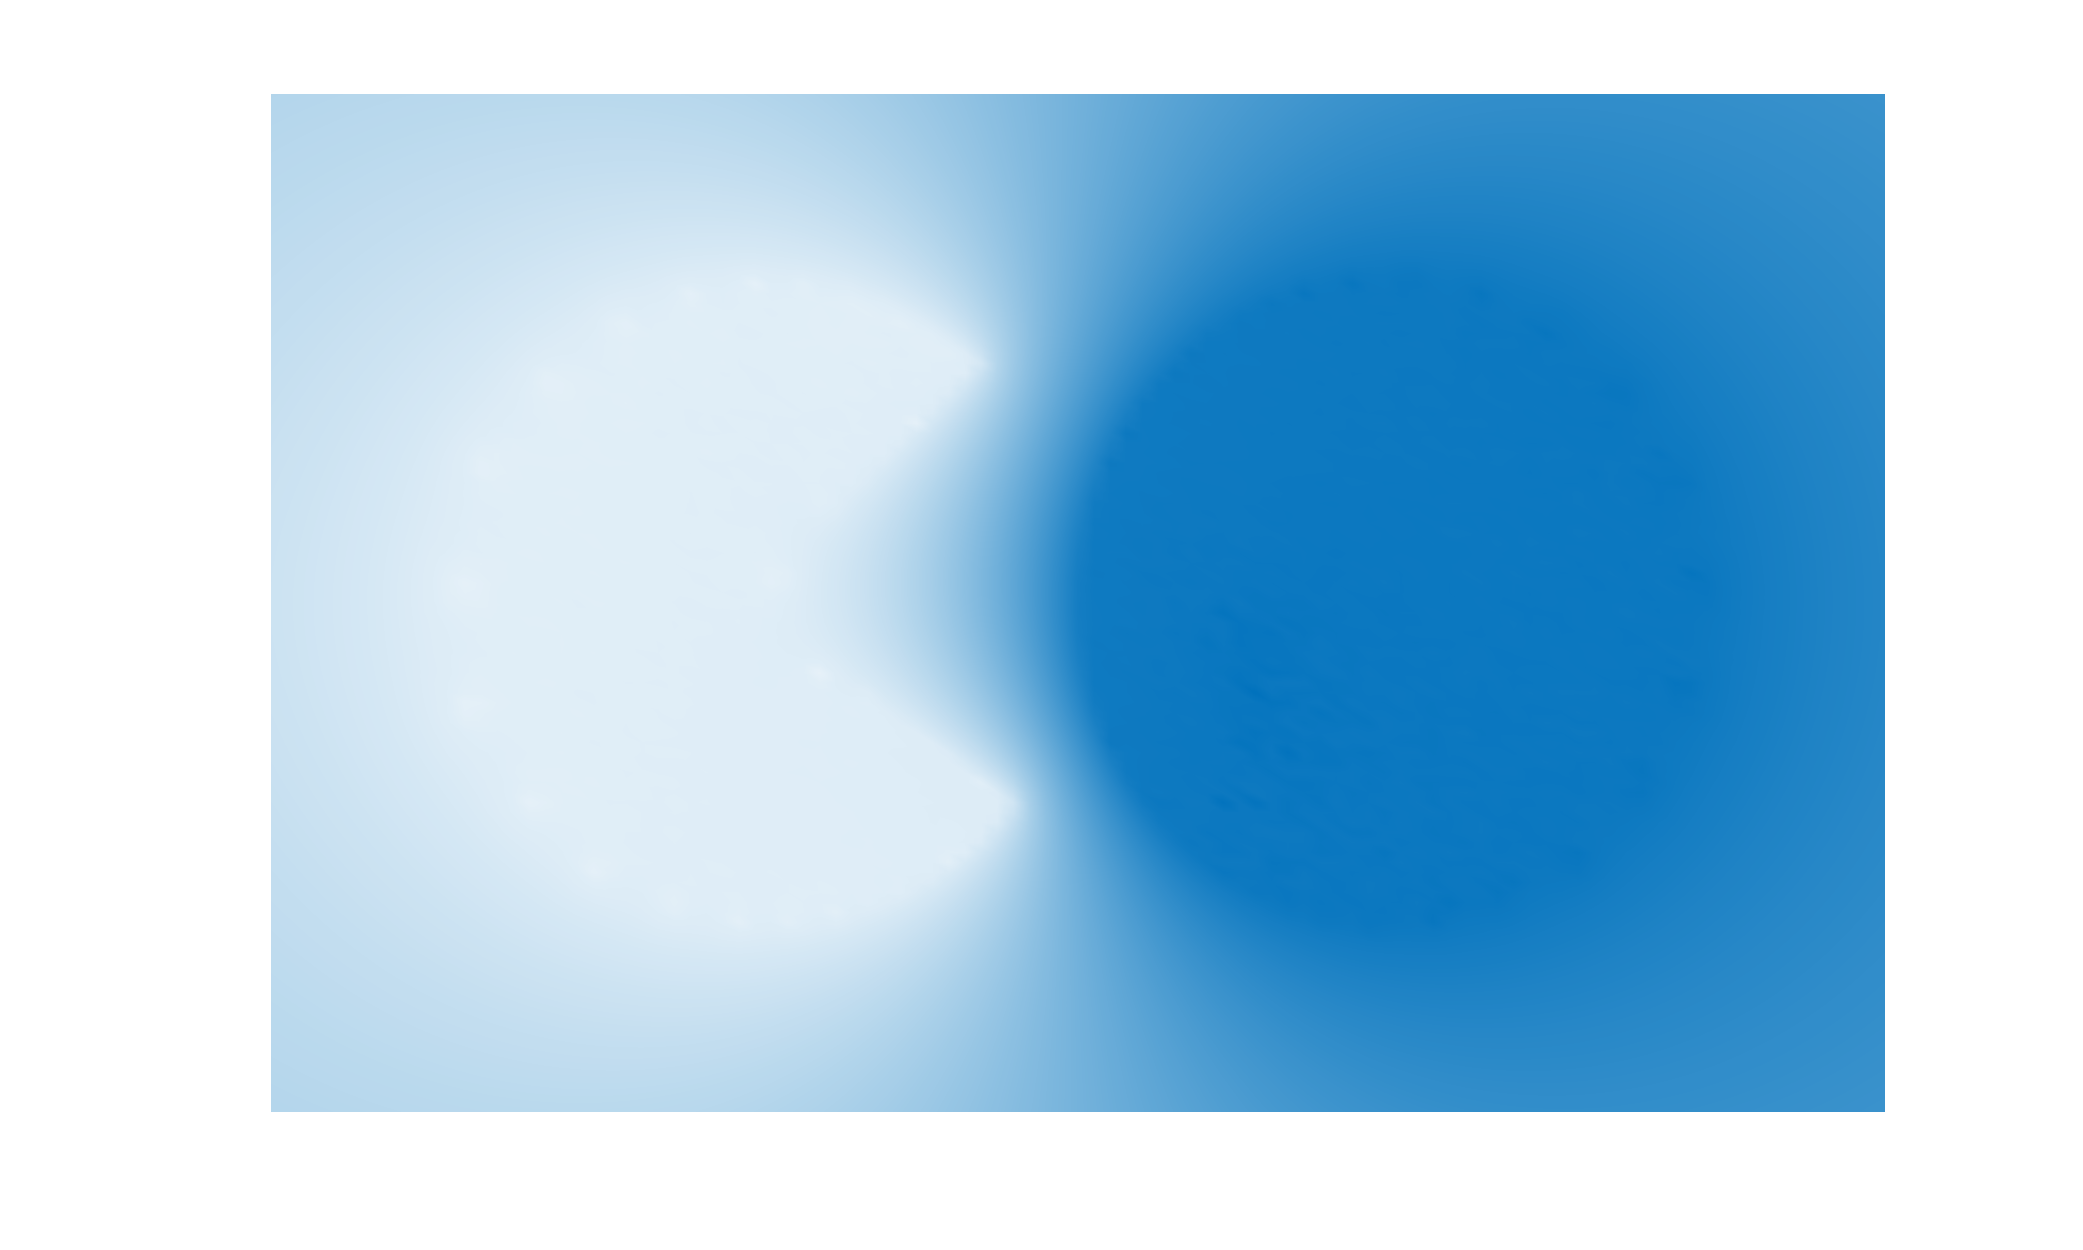
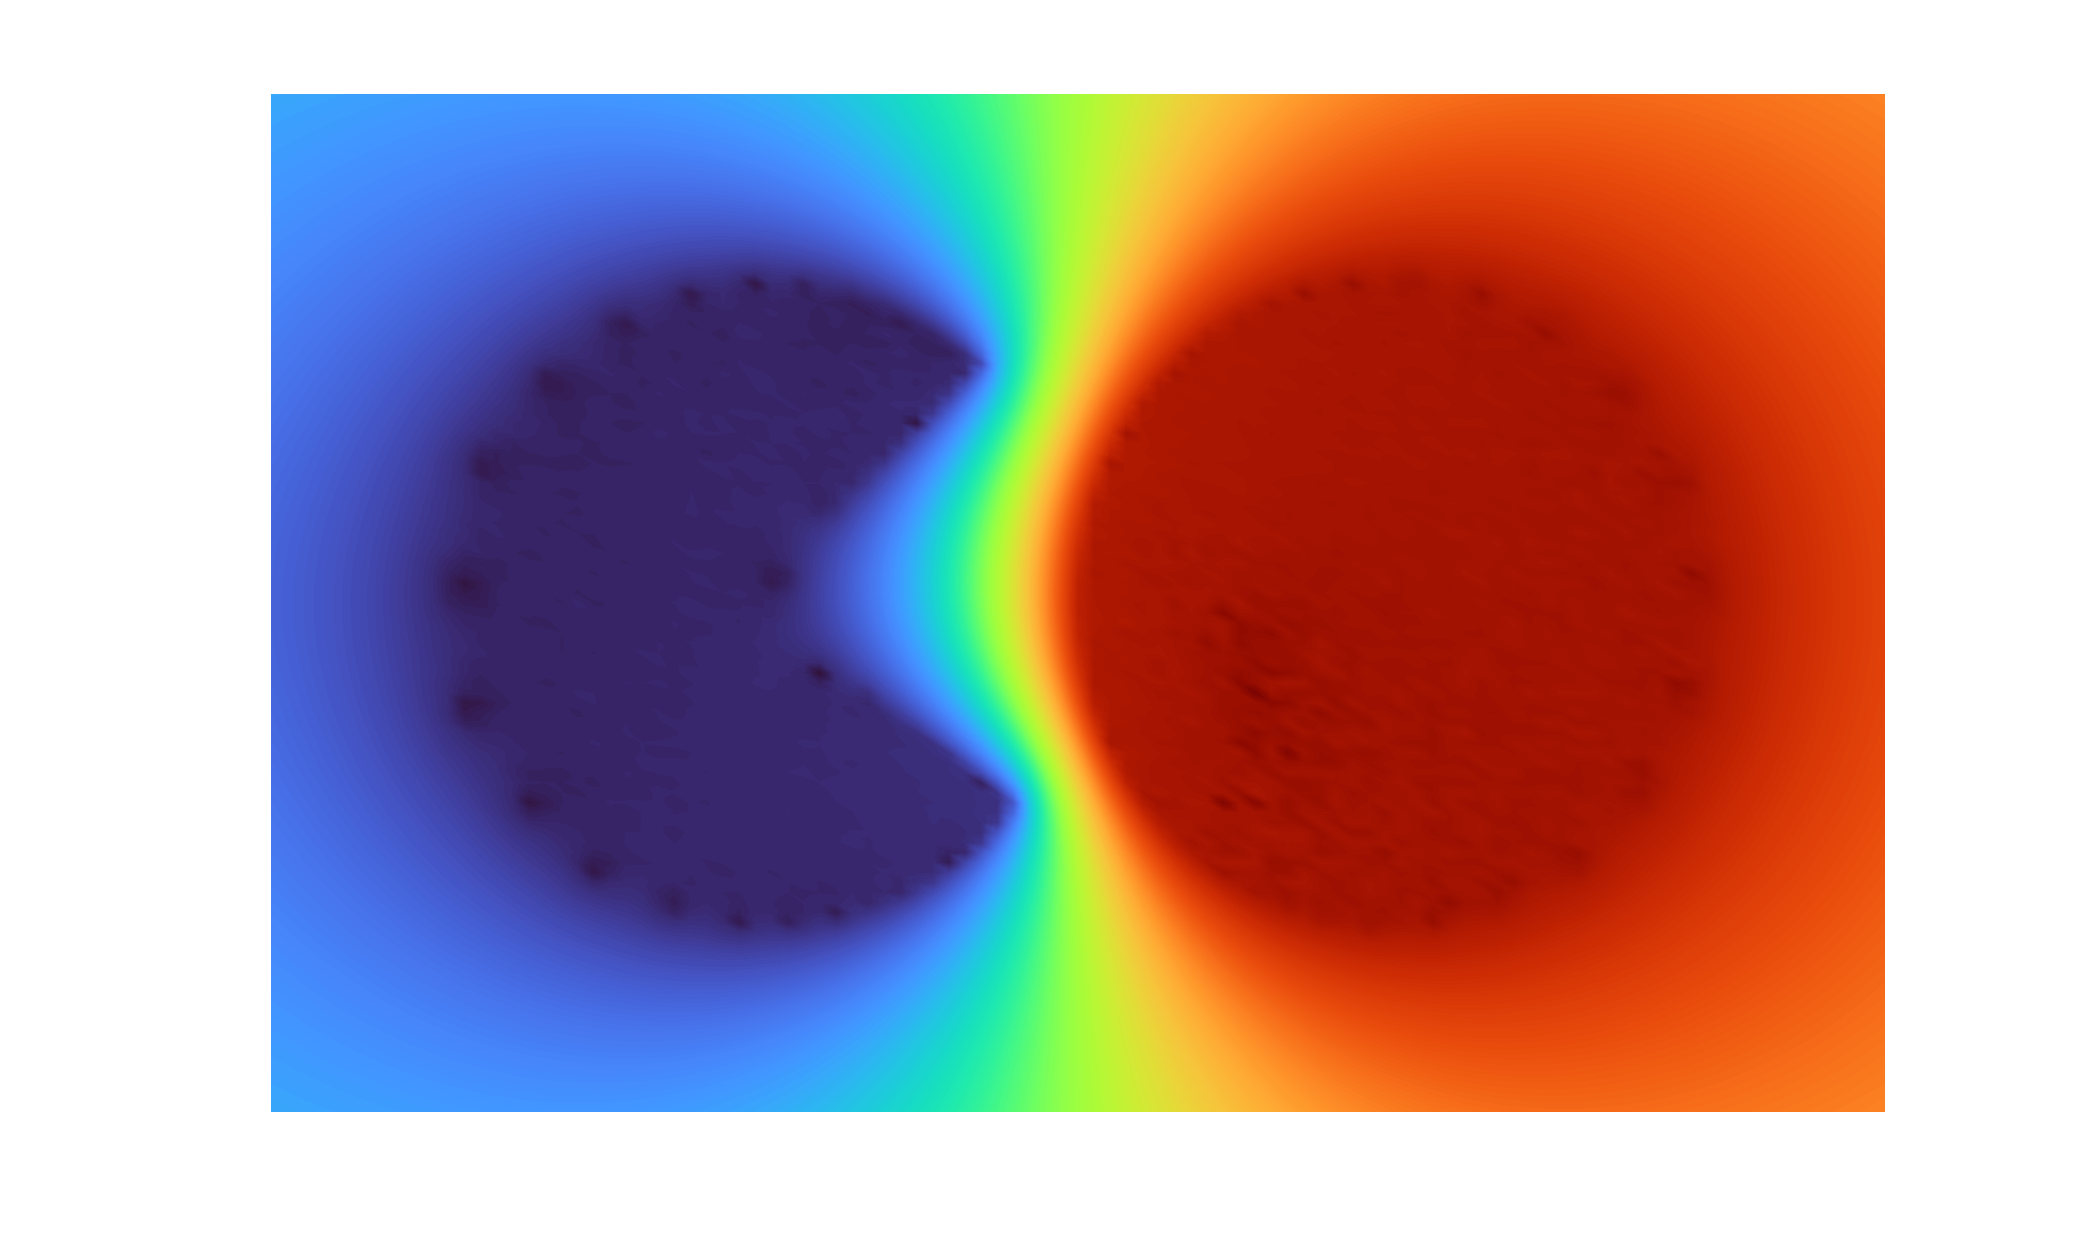
image pm

diff --git a/research.html b/research.html
@@ -49,7 +49,7 @@
 											>> <a href="https://github.com/cpoussot/zolotarev" target="_blank">GitHub code</a> <br> 
 										</p>
 									</div>
-									<img src="images/research/2025_zolo_yy2D.png" width="60%" height="60%"><br>
+									<img src="images/research/2025_zolo_pm2D.png" width="60%" height="60%"><br>
 								</section>
 								<!-- TENSOR -->
 								<section id="banner">
